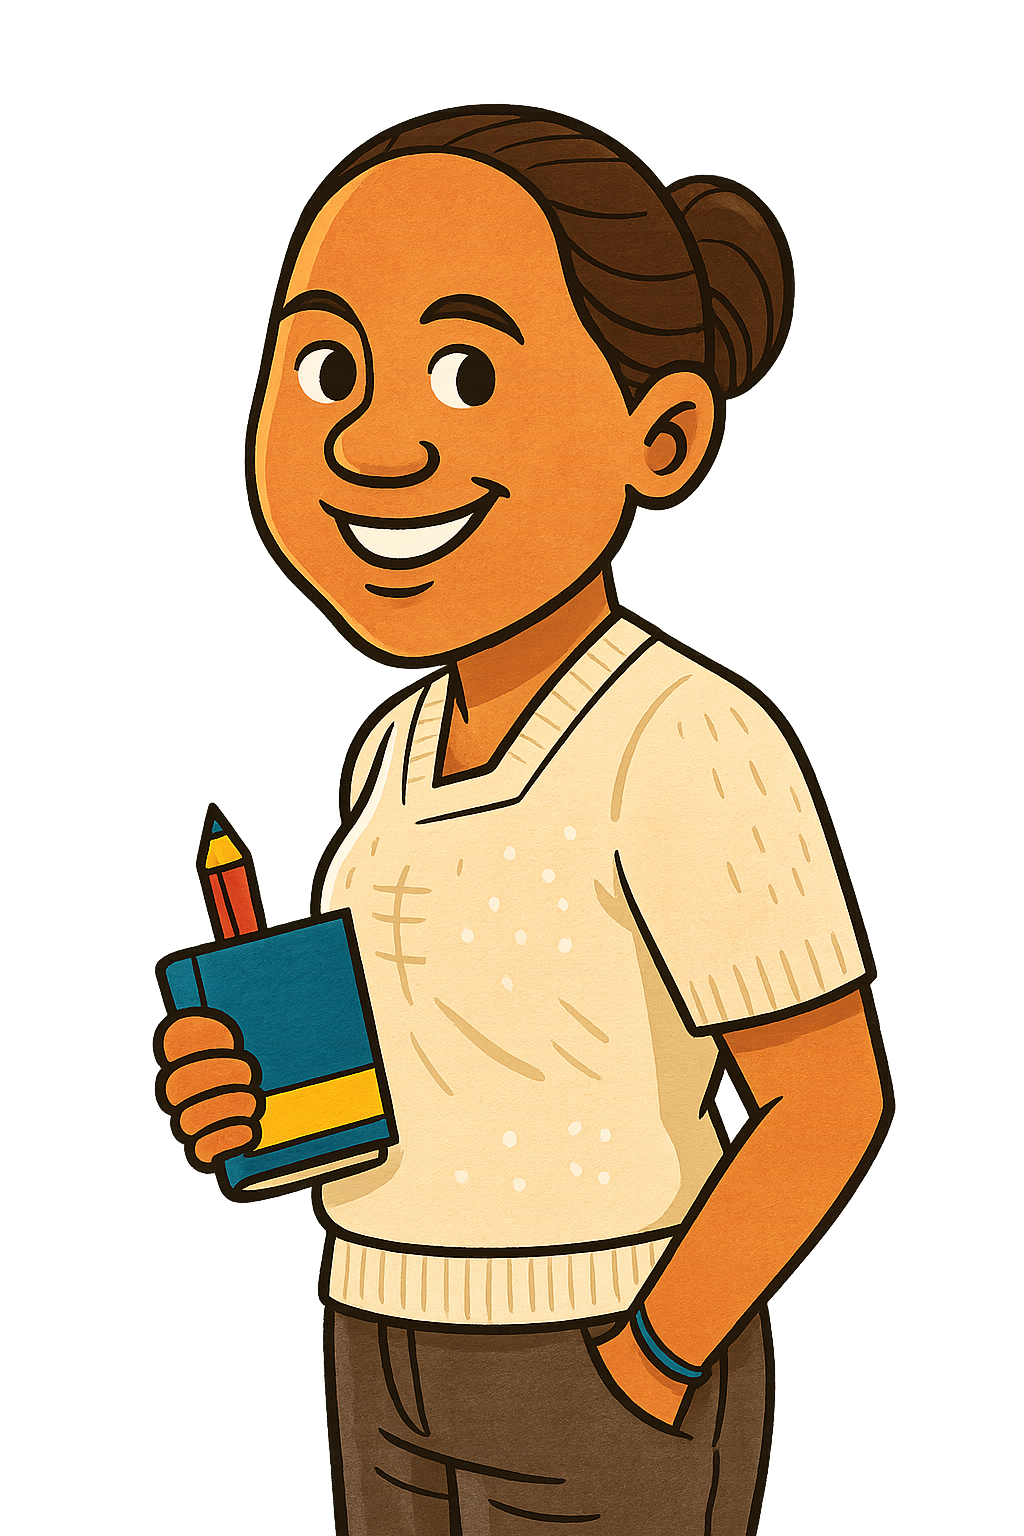
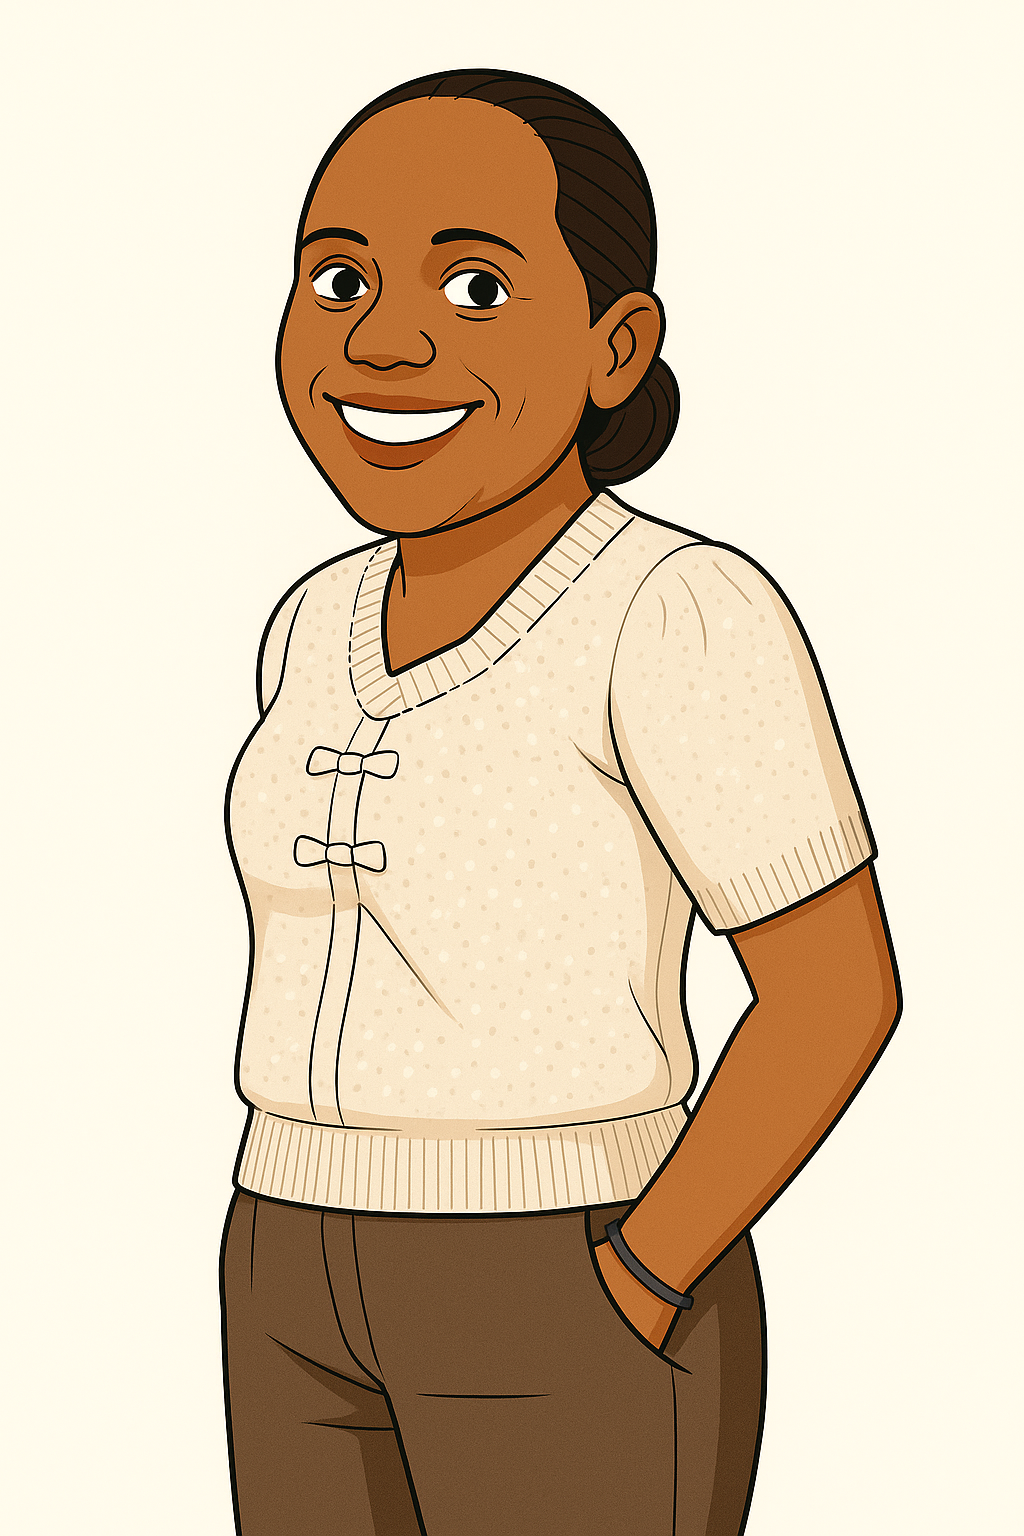
Update Our Team page with new images and hover effect

diff --git a/app/our-team/page.tsx b/app/our-team/page.tsx
@@ -126,7 +126,7 @@ export default function OurTeamPage() {
       bioTet:
         "Kria kontéudu ba pre-eskolar no ensinu báziku iha revista no vídeo; lidera siklu kontéudu Lafaek Ki’ik husi mapping to’o pre-teste no revizaun ho manorin sira no ME.",
       photo: "/team/ronaldo.jpg",
-      sketch: P(),
+      sketch: "/team/ronaldo-sketch.png",
     },
     {
       id: "lucena",
